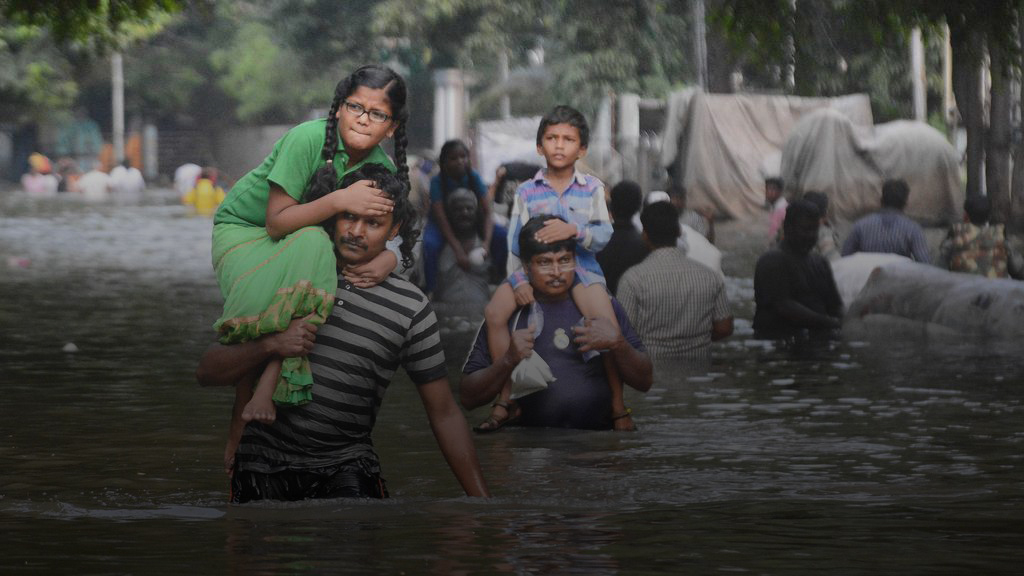
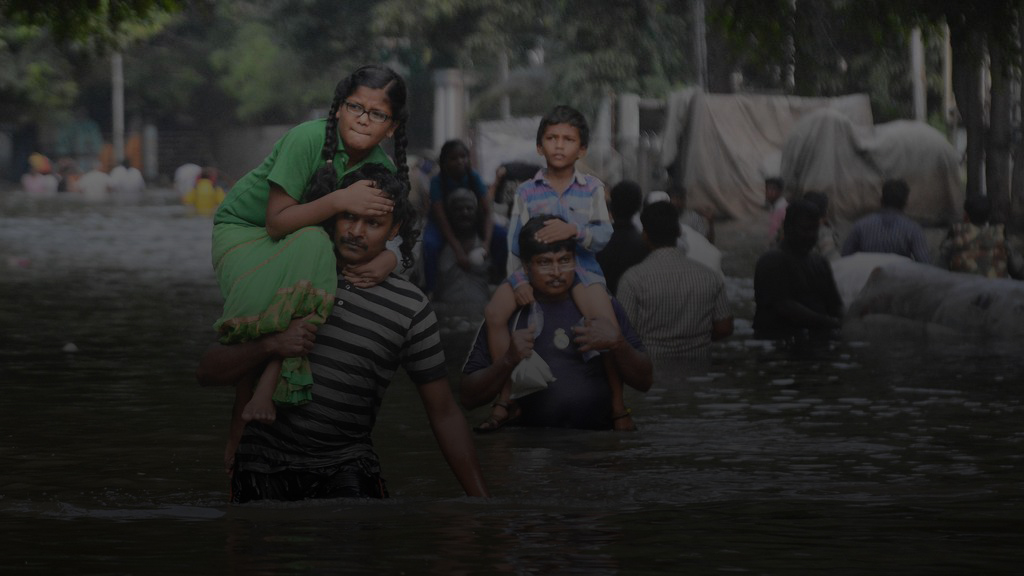
stage1

diff --git a/style.css b/style.css
@@ -1,3 +1,51 @@
 body{
     font-family: 'Poppins', sans-serif;
 }
+
+body{
+    background-image: url(./images/head1.jpg);
+    background-repeat: no-repeat;
+    background-position: top center;
+    background-size: cover;
+}
+
+.title1{
+    text-align: center;
+    font-size: 70px;
+    font-weight: 700px;
+    color: white;
+    margin-top: 160px;
+    margin-bottom: 0;
+}
+.title2{
+    margin-top: 0;
+    padding: 0;
+    text-align: center;
+    font-size: 70px;
+    font-weight: 700px;
+    color: white;
+    margin-bottom: 10px;
+}
+
+.description{
+    color: white;
+    text-align: center;
+    margin-left: 15%;
+    margin-right: 15%;
+    margin-top: 0;
+    margin-bottom: 0;
+
+
+}
+.link-button{
+    text-decoration: none;
+    background-color: orange;
+    padding: 10px 40px;
+    border-radius: 100px;
+    color: white;
+    font-weight: 700;
+    background-image: linear-gradient(orange, tomato);
+   text-align: center;
+   margin-left: 50%;
+   margin-top: 50px;
+}

diff --git a/index.html b/index.html
@@ -13,6 +13,15 @@
 
 </head>
 <body>
-   <h1> Hola amigos</h1>
+    <section>
+        <div>
+            <h1 class="title1">Let’s Help Those Who Are </h1>
+    <h1 class="title2">More In Need </h1>
+    <p class="description">Lorem ipsum dolor sit amet consectetur adipisicing elit. Vel, eos ab officia     perferendis nostrum quasi consectetur, sed quam, voluptates modi velit maxime dolores </p>
+
+    <a class="link-button" target="_blank" rel="noopener noreferrer" href="https://www.linkedin.com/in/saad7mahmud/">Hire Me</a>
+        </div>
+    </section>
+
 </body>
 </html>
